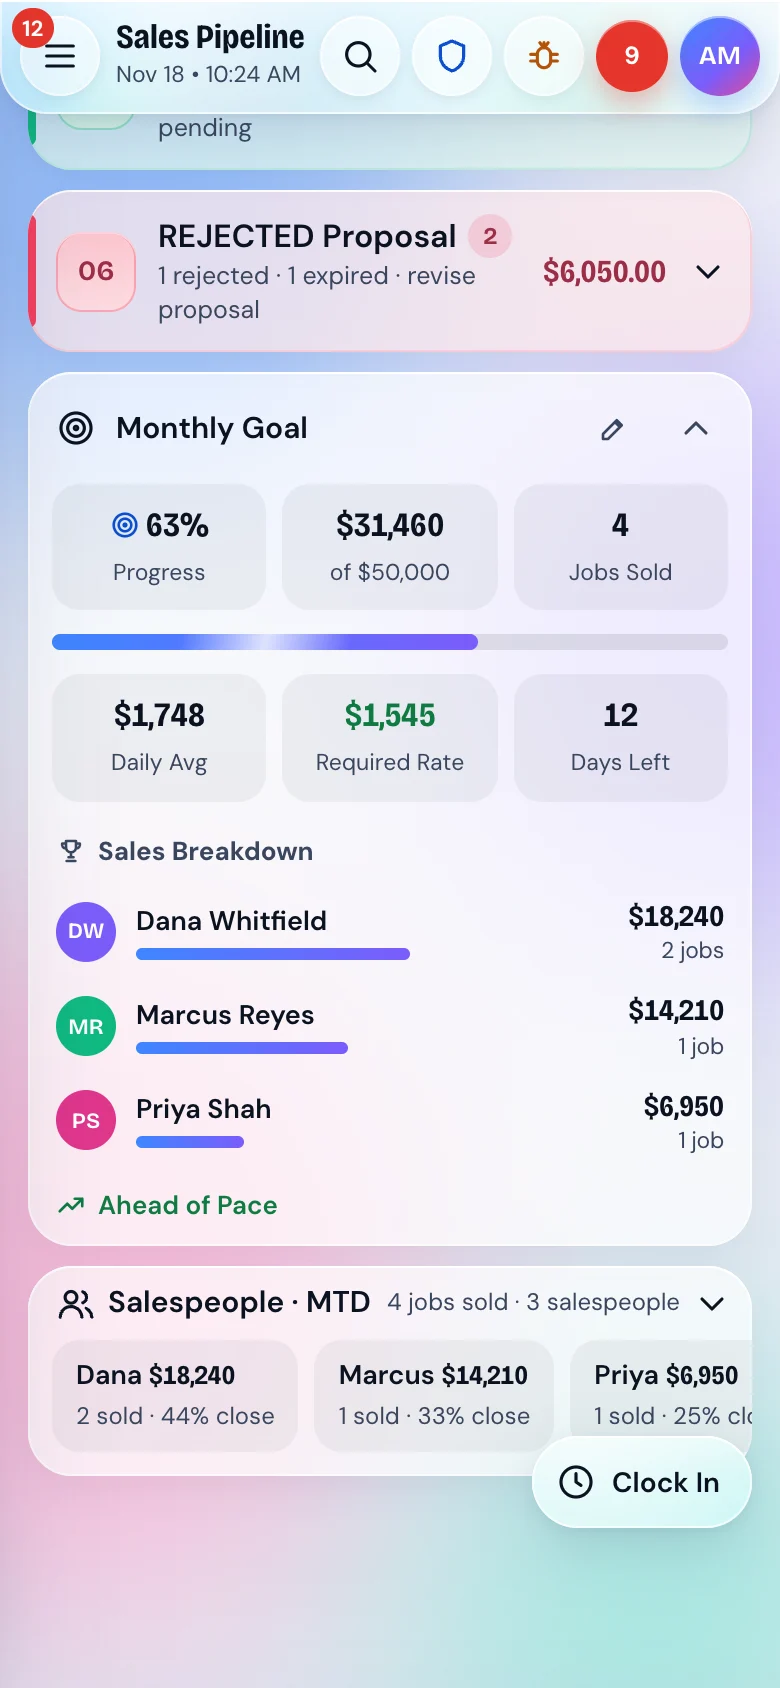
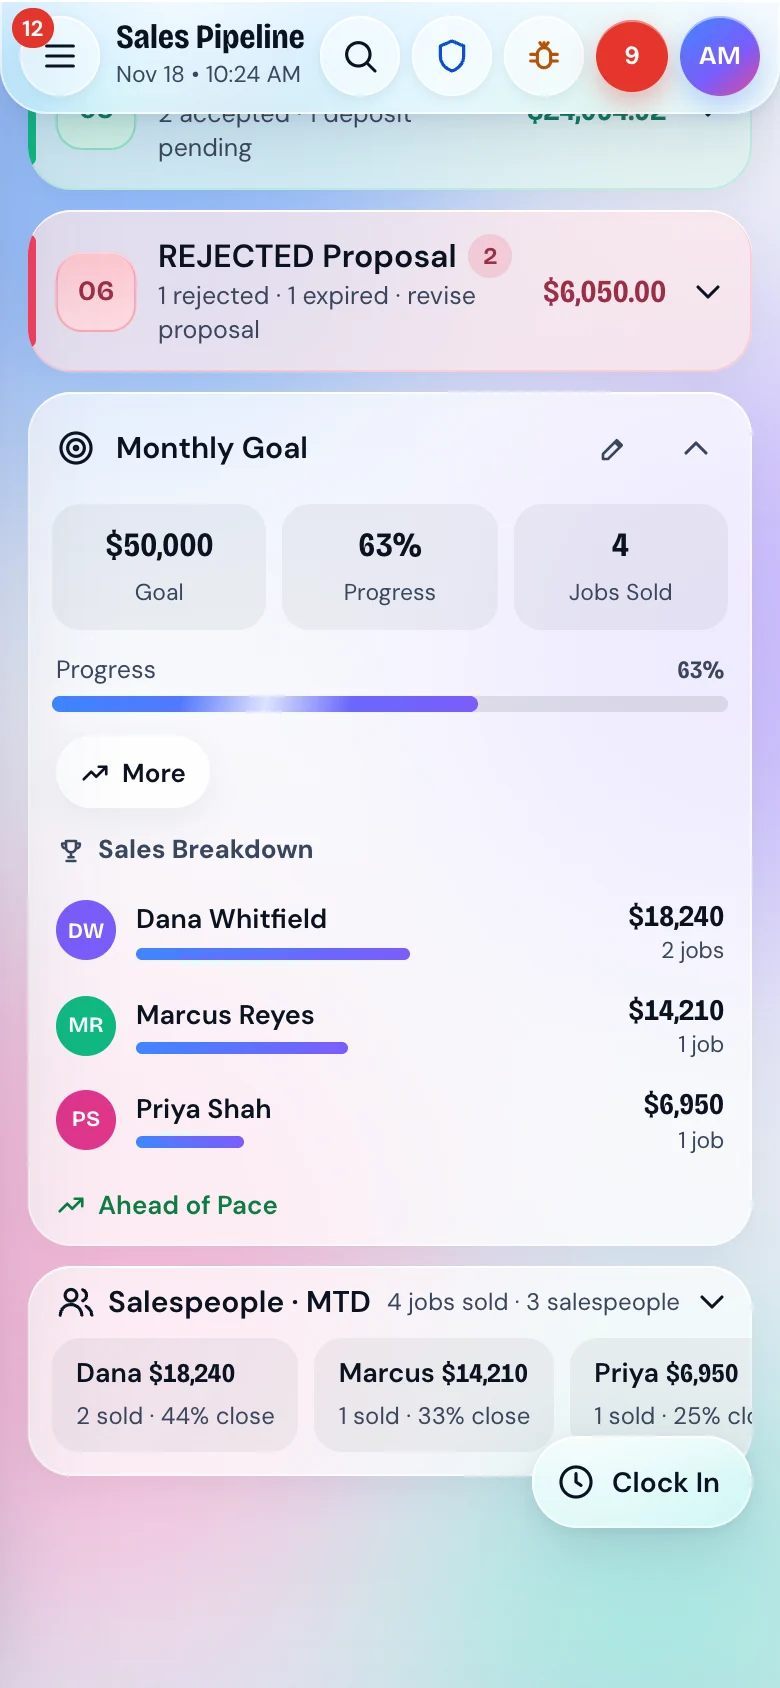
Round two: Monthly Goal More/Less level, AI badge menu on project cards, refreshed stills

diff --git a/designs/mobile-overhaul-nov2026/v2/pipelines.js b/designs/mobile-overhaul-nov2026/v2/pipelines.js
@@ -160,8 +160,11 @@
     <div id="sp-stages">${SP_STAGES.map(spStage).join('')}</div>
     ${any ? '' : `<div class="boardempty"><b>${S.spArchived ? 'No archived opportunities found' : 'No active opportunities in this view'}</b><span>${S.spArchived ? 'Archived leads will appear here' : 'Add a lead or clear filters to get started'}</span></div>`}
     <section class="acc tile" id="goal"><div class="hd"><button class="hdmain" data-act="fold" data-arg="goal-more" aria-expanded="false">${I('target')}<b>Monthly Goal</b></button><button class="ibtn" data-act="goaledit" aria-label="Edit monthly goal">${I('pencil', 'sm')}</button><button class="ibtn" data-act="fold" data-arg="goal-more" aria-label="Show goal details">${I('chev', 'chev')}</button></div>
-      <div class="tri"><div><b class="num">${I('target', 'sm inl')}63%</b><small>Progress</small></div><div><b class="num">$31,460</b><small>of $50,000</small></div><div><b class="num">4</b><small>Jobs Sold</small></div></div>
-      <div class="fold" id="goal-more"><div><div class="prog" style="--w:63%"><i></i></div><div class="tri"><div><b class="num">$1,748</b><small>Daily Avg</small></div><div><b class="num good">$1,545</b><small>Required Rate</small></div><div><b class="num">12</b><small>Days Left</small></div></div>
+      <div class="tri collapsedonly"><div><b class="num">${I('target', 'sm inl')}63%</b><small>Progress</small></div><div><b class="num">$31,460</b><small>of $50,000</small></div><div><b class="num">4</b><small>Jobs Sold</small></div></div>
+      <div class="fold" id="goal-more"><div><div class="tri"><div><b class="num">$50,000</b><small>Goal</small></div><div><b class="num">63%</b><small>Progress</small></div><div><b class="num">4</b><small>Jobs Sold</small></div></div>
+        <div class="progrow"><span>Progress</span><span class="num">63%</span></div><div class="prog" style="--w:63%"><i></i></div>
+        <div class="pad"><button class="btn sm" data-act="goalmore" aria-expanded="false">${I('trend', 'sm')}<span>More</span></button></div>
+        <div class="fold" id="goal-extra"><div><div class="quad padx">${[['$1,748', 'Daily Avg'], ['$1,545', 'Required Rate'], ['12', 'Days Left'], ['$18,540', 'Remaining']].map(([a, b], i) => `<div><b class="num${i === 1 ? ' good' : ''}">${a}</b><small>${b}</small></div>`).join('')}</div></div></div>
         <div class="rank"><h4>${I('trophy', 'sm')}Sales Breakdown</h4>${[['DW', 18240, 2, 58], ['MR', 14210, 1, 45], ['PS', 6950, 1, 22]].map(([k, v, n, w]) => `<div class="rk"><i style="--c:${V.TEAM[k].c}">${k}</i><span><b>${V.TEAM[k].name}</b><em style="--w:${w}%"></em></span><span class="num">${money(v, false)}<small>${V.plural(n, 'job')}</small></span></div>`).join('')}</div><p class="status">${I('trend', 'sm')}Ahead of Pace</p></div></div></section>
     <section class="acc tile"><button class="hd" data-act="fold" data-arg="sm-more" aria-label="Toggle salesperson performance and goals" aria-expanded="false">${I('users')}<b>Salespeople · MTD</b><small>4 jobs sold · 3 salespeople</small>${I('chev', 'chev')}</button>
       <div class="strip">${[['DW', '$18,240', '2 sold · 44% close'], ['MR', '$14,210', '1 sold · 33% close'], ['PS', '$6,950', '1 sold · 25% close']].map(([k, v, s]) => `<div><b>${V.first(k)} <span class="num">${v}</span></b><small>${s}</small></div>`).join('')}</div>
@@ -216,10 +219,11 @@
   A.schedmenu = (el, id) => V.openPop(el, V.menu([{ label: 'Sales Appointment', icon: 'calendar', cls: 'green', act: 'sheet', arg: 'scheduler:sales:' + id }, { label: 'Non-Sales Appointment', icon: 'calendar', cls: 'red', act: 'sheet', arg: 'scheduler:non-sales:' + id }]), { align: 'left', width: 250 });
   A.createproposal = (el, id) => { const l = lead(id); V.closePop(); V.toast('Create Proposal', `${l.name} moves to Proposal In-Draft and the builder opens, same as today`); };
   A.propmenu = (el, id) => V.openPop(el, V.menu(propMenuItems(lead(id))), { width: 240 });
-  A.aisetter = (el, id) => { const l = lead(id); V.openPop(el, `<h4>AI Setter</h4><p class="poptext">${l.ai === 'active' ? 'The AI Setter is texting this lead to book an appointment.' : l.ai === 'paused' ? 'The AI Setter is paused for this lead.' : 'The AI Setter handed this conversation to your team.'}</p><button class="btn wide sm" data-act="aitoggle" data-arg="${id}">${I(l.ai === 'paused' ? 'play' : 'pause', 'sm')}${l.ai === 'paused' ? 'Resume AI' : 'Pause AI'}</button>`, { align: 'left', width: 260 }); };
-  A.aitoggle = (el, id) => { const l = lead(id); l.ai = l.ai === 'paused' ? 'active' : 'paused'; V.closePop(); V.redraw(); V.toast(l.ai === 'paused' ? 'AI paused' : 'AI resumed', l.name); };
+  A.aisetter = (el, id) => { const l = lead(id) || JOBS.find((j) => j.id === id); V.openPop(el, `<h4>AI Setter</h4><p class="poptext">${l.ai === 'active' ? 'The AI Setter is texting this lead to book an appointment.' : l.ai === 'paused' ? 'The AI Setter is paused for this lead.' : 'The AI Setter handed this conversation to your team.'}</p><button class="btn wide sm" data-act="aitoggle" data-arg="${id}">${I(l.ai === 'paused' ? 'play' : 'pause', 'sm')}${l.ai === 'paused' ? 'Resume AI' : 'Pause AI'}</button>`, { align: 'left', width: 260 }); };
+  A.aitoggle = (el, id) => { const l = lead(id) || JOBS.find((j) => j.id === id); l.ai = l.ai === 'paused' ? 'active' : 'paused'; V.closePop(); V.redraw(); V.toast(l.ai === 'paused' ? 'AI paused' : 'AI resumed', l.name); };
   A.aicloser = (el, id) => { const p = lead(id), paused = p.closer === 'AI paused'; V.openPop(el, `<h4>AI Closer</h4><p class="poptext">${paused ? 'Paused by your team — no texts until resumed' : `Next touch: ${V.md(V.day(2))}`} · 2 follow-ups sent</p><div class="poprow wrap">${paused ? `<button class="btn sm" data-act="closertoggle" data-arg="${id}">Resume</button>` : `<button class="btn sm" data-act="closertoggle" data-arg="${id}">Pause</button><button class="btn sm" data-act="toast" data-arg="Snoozed 1 week|${p.name}">Snooze 1w</button><button class="btn sm" data-act="toast" data-arg="Snoozed 1 month|${p.name}">1mo</button><button class="btn sm" data-act="toast" data-arg="Snoozed 2 months|${p.name}">2mo</button>`}</div>`, { align: 'left', width: 280 }); };
   A.closertoggle = (el, id) => { const p = lead(id); p.closer = p.closer === 'AI paused' ? 'AI following up' : 'AI paused'; V.closePop(); V.redraw(); V.toast(p.closer, p.name); };
+  A.goalmore = (el) => { V.ACT.fold(el, 'goal-extra'); const open = $('#goal-extra').classList.contains('open'); el.setAttribute('aria-expanded', open); $('span', el).textContent = open ? 'Less' : 'More'; };
   A.goaledit = (el) => V.openPop(el, `<h4>Monthly goal</h4><div class="poprow"><label class="field"><input type="number" inputmode="decimal" placeholder="Enter goal amount" value="50000" aria-label="Goal amount"></label></div><div class="poprow"><button class="btn sm solid" data-act="toast" data-arg="Goal saved|Saved on this device, same as today">Save</button><button class="btn sm" data-act="toast" data-arg="Cancelled">Cancel</button></div>`, { width: 260 });
 
   /* ── Project pipeline data ─────────────────────────────────────────────── */
@@ -266,7 +270,7 @@
         <button class="note" data-act="note" data-arg="${j.id}">${I('plus', 'sm')}Note${j.notes ? ` (${j.notes})` : ''}</button>
         <button class="ibtn" data-act="cardtoggle" data-arg="${j.id}" title="${open ? 'Collapse' : 'Expand'} details" aria-label="${open ? 'Collapse' : 'Expand'} details">${I('chev', 'chev')}</button></div>
       <h3 class="jname">${j.name}</h3>
-      <div class="chips jchips">${chip(j.src, SRC[j.src])}<span class="chip amb soft">${j.type}</span>${j.ai ? `<button class="chip c btnlike" style="--c:#10B981" data-act="toast" data-arg="AI Setter|Same popover as today: status and Pause AI">${I('sparkles', 'sm')}AI ACTIVE${I('chev', 'sm')}</button>` : ''}</div>
+      <div class="chips jchips">${chip(j.src, SRC[j.src])}<span class="chip amb soft">${j.type}</span>${j.ai ? `<button class="chip c btnlike" style="--c:${j.ai === 'active' ? '#10B981' : '#64748B'}" data-act="aisetter" data-arg="${j.id}">${I('sparkles', 'sm')}AI ${j.ai.toUpperCase()}${I('chev', 'sm')}</button>` : ''}</div>
       ${j.flag ? `<div class="chips"><span class="chip ${j.flag.startsWith('IN') ? 'red pulse' : 'amb'}">${I('dollar', 'sm')}${j.flag}</span></div>` : ''}
       ${j.stage === 'done' ? `<div class="chips">${j.paid ? `<span class="chip c" style="--c:#10B981">${I('checkcircle', 'sm')}PAID</span>` : `<span class="chip c" style="--c:#EF4444">${I('flag', 'sm')}UNPAID</span>`}</div>` : ''}
       <p class="cline">(1 proposal • <b class="num pv">${money(j.value)}</b>)</p>

diff --git a/designs/mobile-overhaul-nov2026/v2/checklist/index.html b/designs/mobile-overhaul-nov2026/v2/checklist/index.html
@@ -85,7 +85,7 @@ footer{ margin-top: 48px; font-size: 14px; color: var(--ink-2); }
 
   <h2>How this was checked</h2>
   <ul class="plain">
-    <li><b>A touch test taps through all four screens</b> the way a finger would: 198 checks, run at three phone widths (360, 390 and 430 px), all passing. It confirms each control is present, in order, on screen, and does its job.</li>
+    <li><b>A touch test taps through all four screens</b> the way a finger would: 202 checks, run at three phone widths (360, 390 and 430 px), all passing. It confirms each control is present, in order, on screen, and does its job.</li>
     <li><b>Every still was rendered in light and dark</b> and reviewed for cut-off text, overlap and sideways scrolling.</li>
     <li><b>Not checked on a real iPhone.</b> All of this ran in Chrome's phone emulation. Blur and motion should be confirmed on a device before building.</li>
     <li><b>Names, addresses and numbers are invented.</b> Nothing here comes from customer data.</li>
@@ -180,7 +180,7 @@ const SCREENS = [
 ];
 const names = { d: 'Drawn', s: 'Same dialog', k: 'Kept as is' };
 const total = SCREENS.reduce((t, s) => t + s[1], 0);
-document.getElementById('nums').innerHTML = `<div><b>${total.toLocaleString('en-US')}</b><span>items listed from the code</span></div><div><b>4</b><span>phone screens</span></div><div><b>0</b><span>features removed</span></div><div><b>198</b><span>touch checks passing</span></div>`;
+document.getElementById('nums').innerHTML = `<div><b>${total.toLocaleString('en-US')}</b><span>items listed from the code</span></div><div><b>4</b><span>phone screens</span></div><div><b>0</b><span>features removed</span></div><div><b>202</b><span>touch checks passing</span></div>`;
 document.getElementById('screens').innerHTML = SCREENS.map(([name, n, rows]) => `<h2>${name}<small>${n} items</small></h2><div class="list">${rows.map(([a, b, c]) => `<div class="row"><b>${a}</b><span>${b}</span><em class="tag ${c}">${names[c]}</em></div>`).join('')}</div>`).join('');
 </script>
 </body>

diff --git a/designs/mobile-overhaul-nov2026/v2/extra.css b/designs/mobile-overhaul-nov2026/v2/extra.css
@@ -353,3 +353,8 @@ button[aria-expanded="true"] .chev, .isopen .chev{ transform: rotate(180deg); }
 .plus.open{ z-index: 2; }
 /* On a wide screen the side panel already holds the review controls. */
 @media (min-width: 761px) and (min-height: 701px){ .review{ display: none; } }
+.card{ cursor: pointer; }
+#goal:has(#goal-more.open) .collapsedonly{ display: none; }
+.progrow{ display: flex; justify-content: space-between; padding: 0 14px 4px; font-size: 12.5px; color: var(--ink-2); }
+.quad.padx{ padding: 0 12px 12px; margin-top: 0; }
+#goal .pad .btn{ gap: 6px; }
